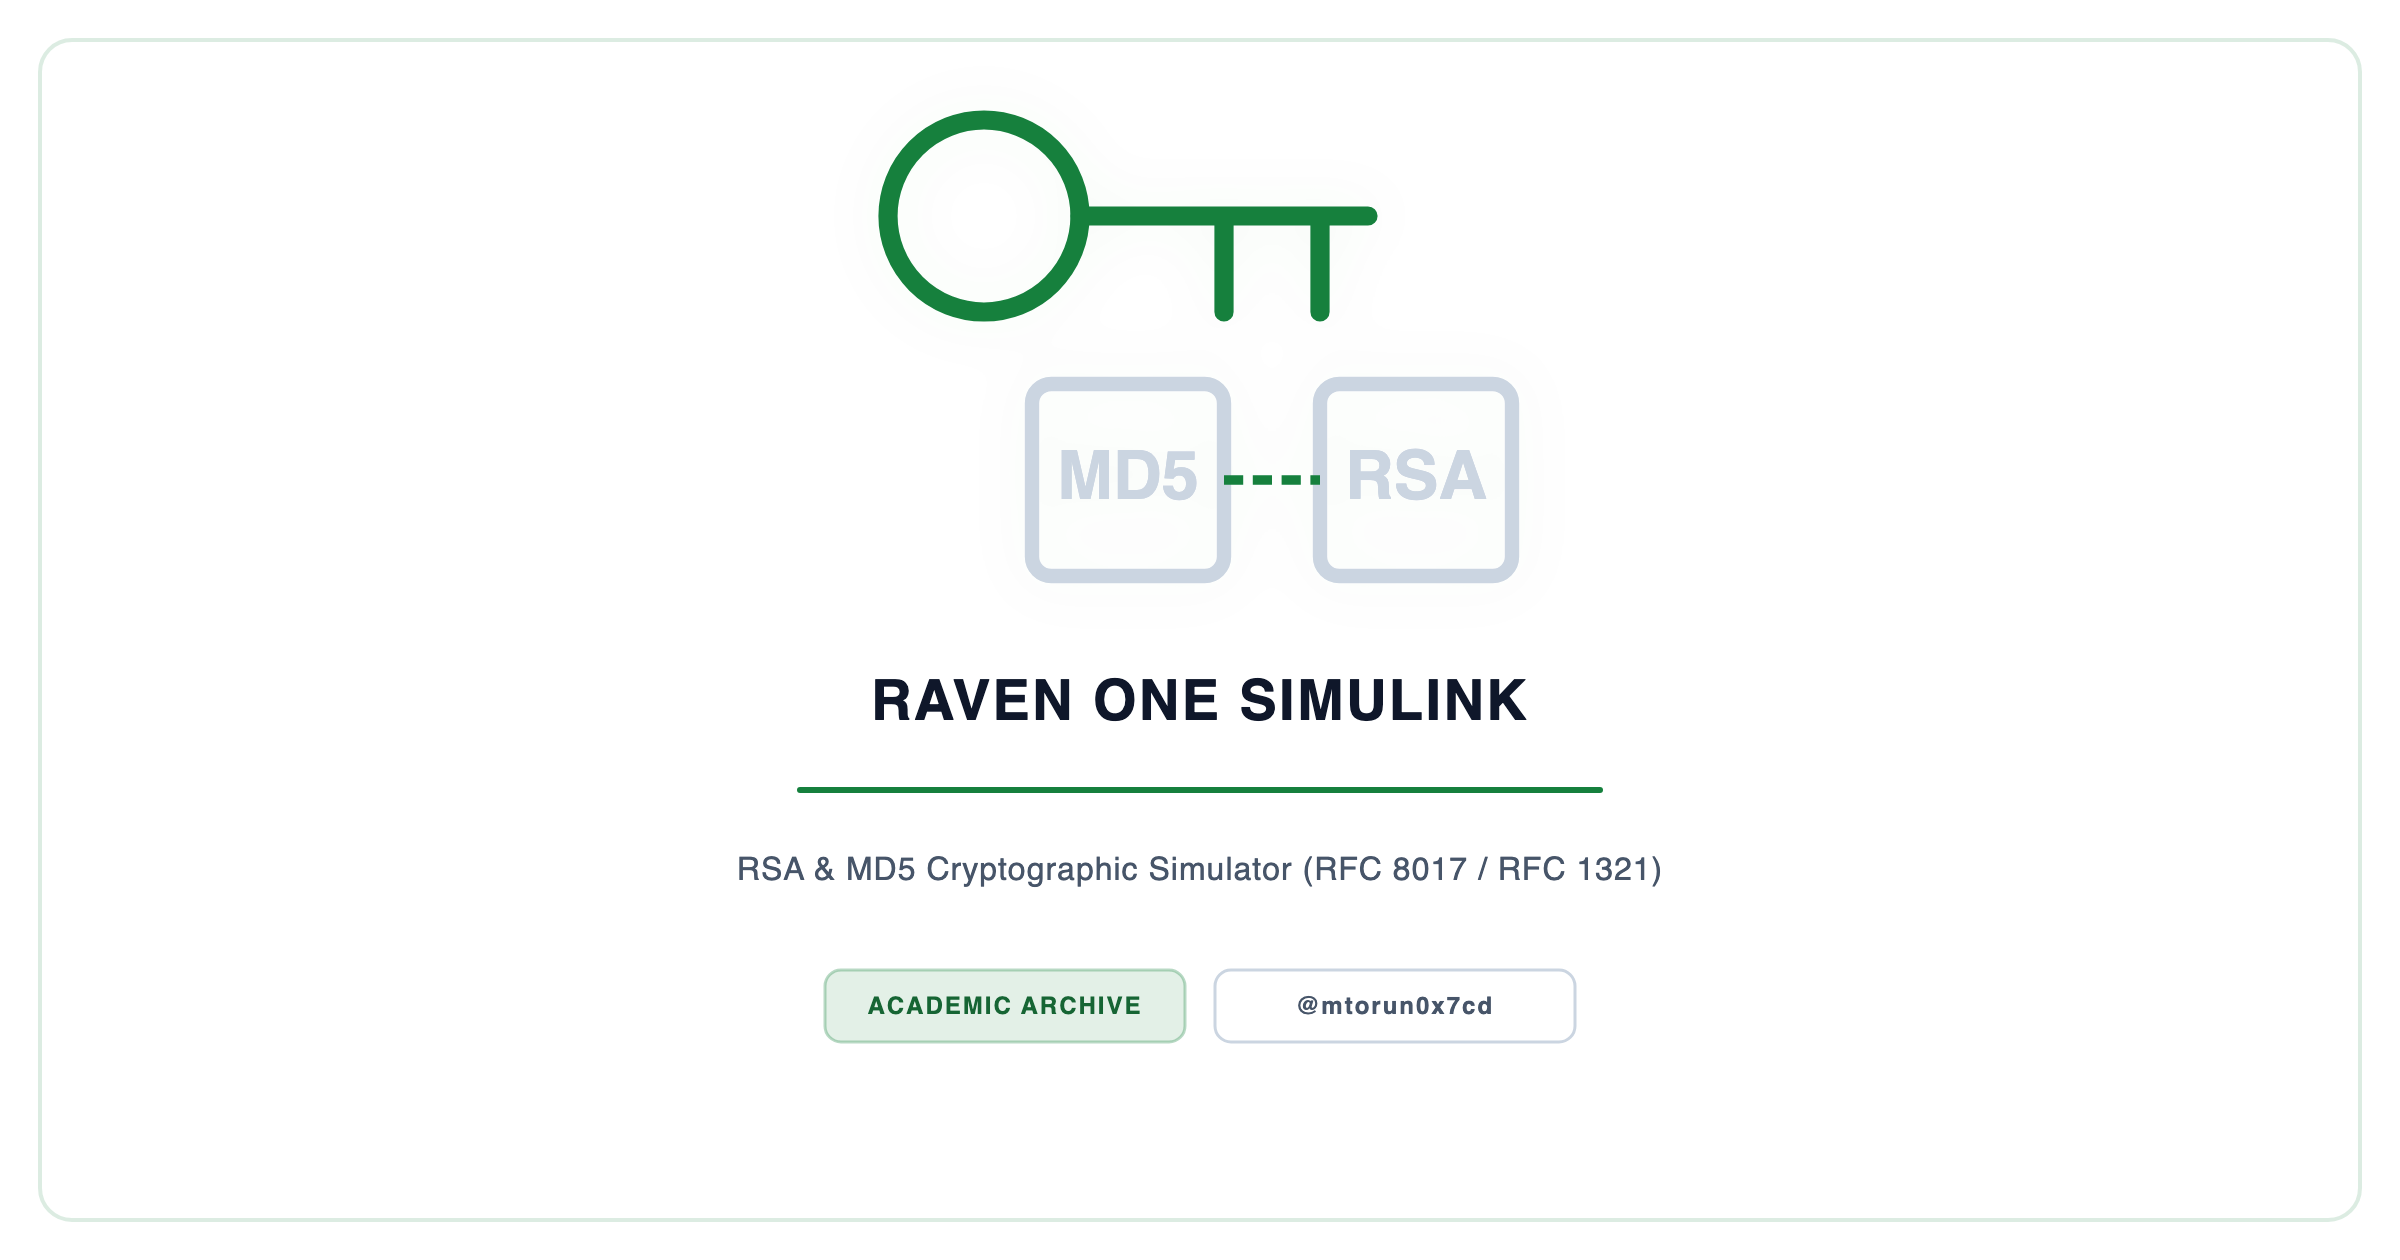
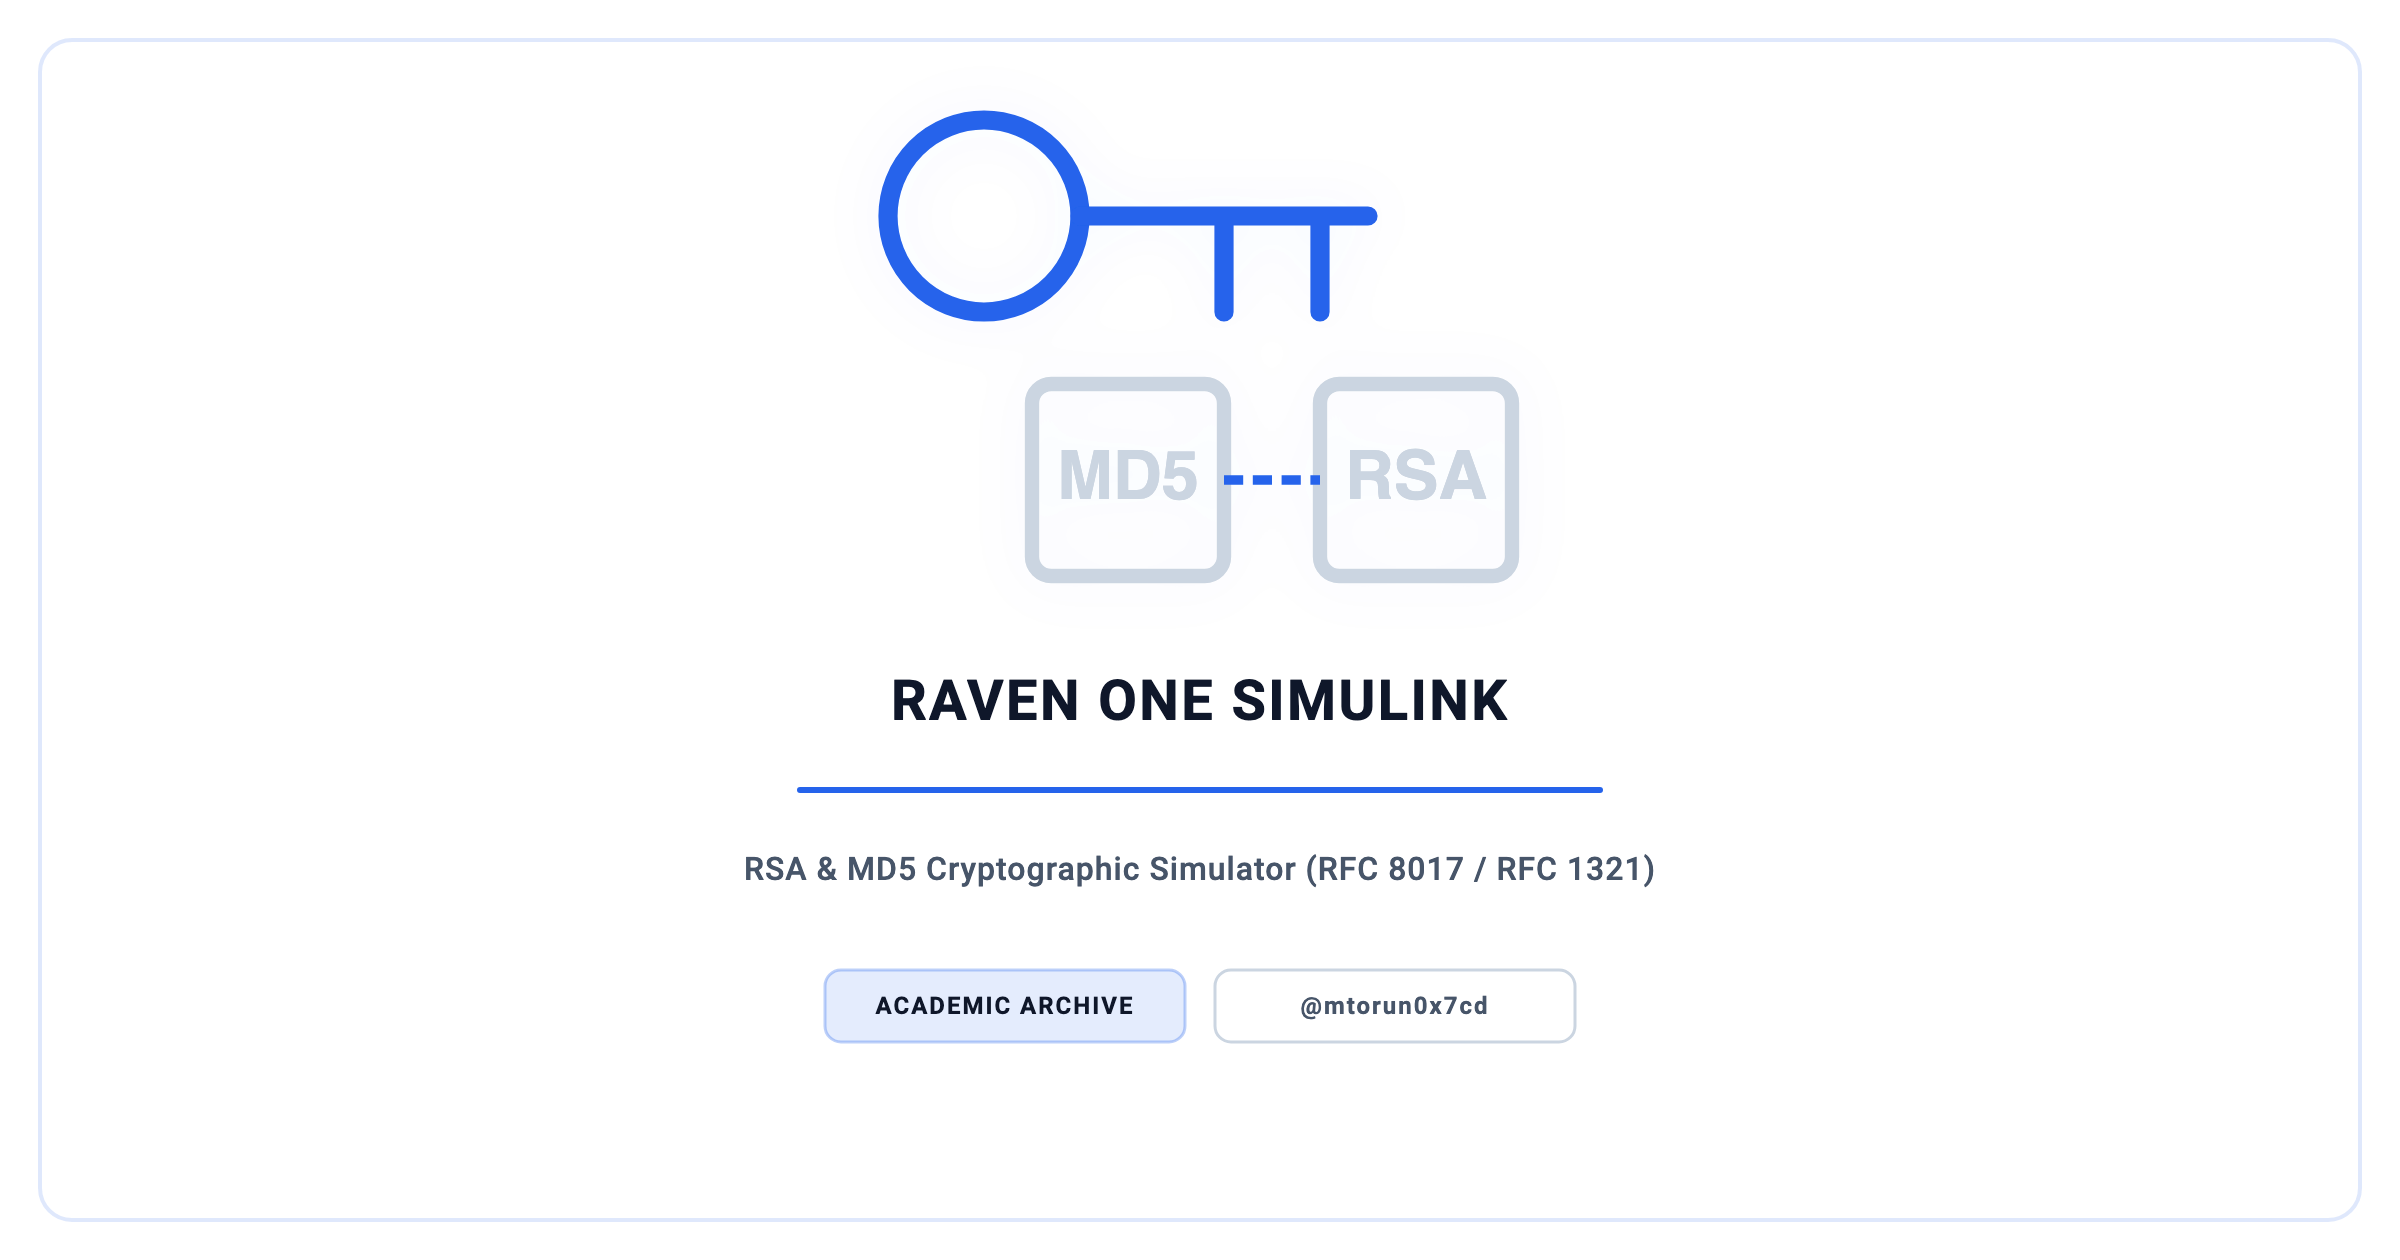
docs: recolour the social preview and MD5 diagrams to the brand accent

diff --git a/README.md b/README.md
@@ -66,7 +66,7 @@ The source preserved here is the listing from the thesis appendix: the two crypt
 ### MD5 Cryptographic Dataflow Diagram
 
 ```mermaid
-%%{init: {'theme': 'base', 'themeVariables': { 'primaryColor': '#E8F5E9', 'edgeColor': '#4CAF50', 'primaryBorderColor': '#2E7D32', 'lineColor': '#4CAF50', 'textColor': '#1B5E20' }}}%%
+%%{init: {'theme': 'base', 'themeVariables': { 'primaryColor': '#EFF6FF', 'edgeColor': '#2563EB', 'primaryBorderColor': '#2563EB', 'lineColor': '#2563EB', 'textColor': '#0F172A' }}}%%
 graph TD
     Input[Input Message] --> Padding[Padding Stage: Append 1 bit, Pad with 0s, Append Length: 32-bit value in the 64-bit field]
     Padding --> Blocks[512-bit Blocks]
@@ -123,7 +123,7 @@ graph TD
 ### MD5 Round Structure (Merkle–Damgård)
 
 ```mermaid
-%%{init: {'theme': 'base', 'themeVariables': { 'primaryColor': '#E8F5E9', 'edgeColor': '#4CAF50', 'primaryBorderColor': '#2E7D32', 'lineColor': '#4CAF50', 'textColor': '#1B5E20' }}}%%
+%%{init: {'theme': 'base', 'themeVariables': { 'primaryColor': '#EFF6FF', 'edgeColor': '#2563EB', 'primaryBorderColor': '#2563EB', 'lineColor': '#2563EB', 'textColor': '#0F172A' }}}%%
 graph TD
     In["Input → pad to 512-bit blocks"] --> Init["For each block: init A, B, C, D<br/>from the chaining state"]
     Init --> F["Rounds 0–15 · F = (B∧C) ∨ (¬B∧D)"]
